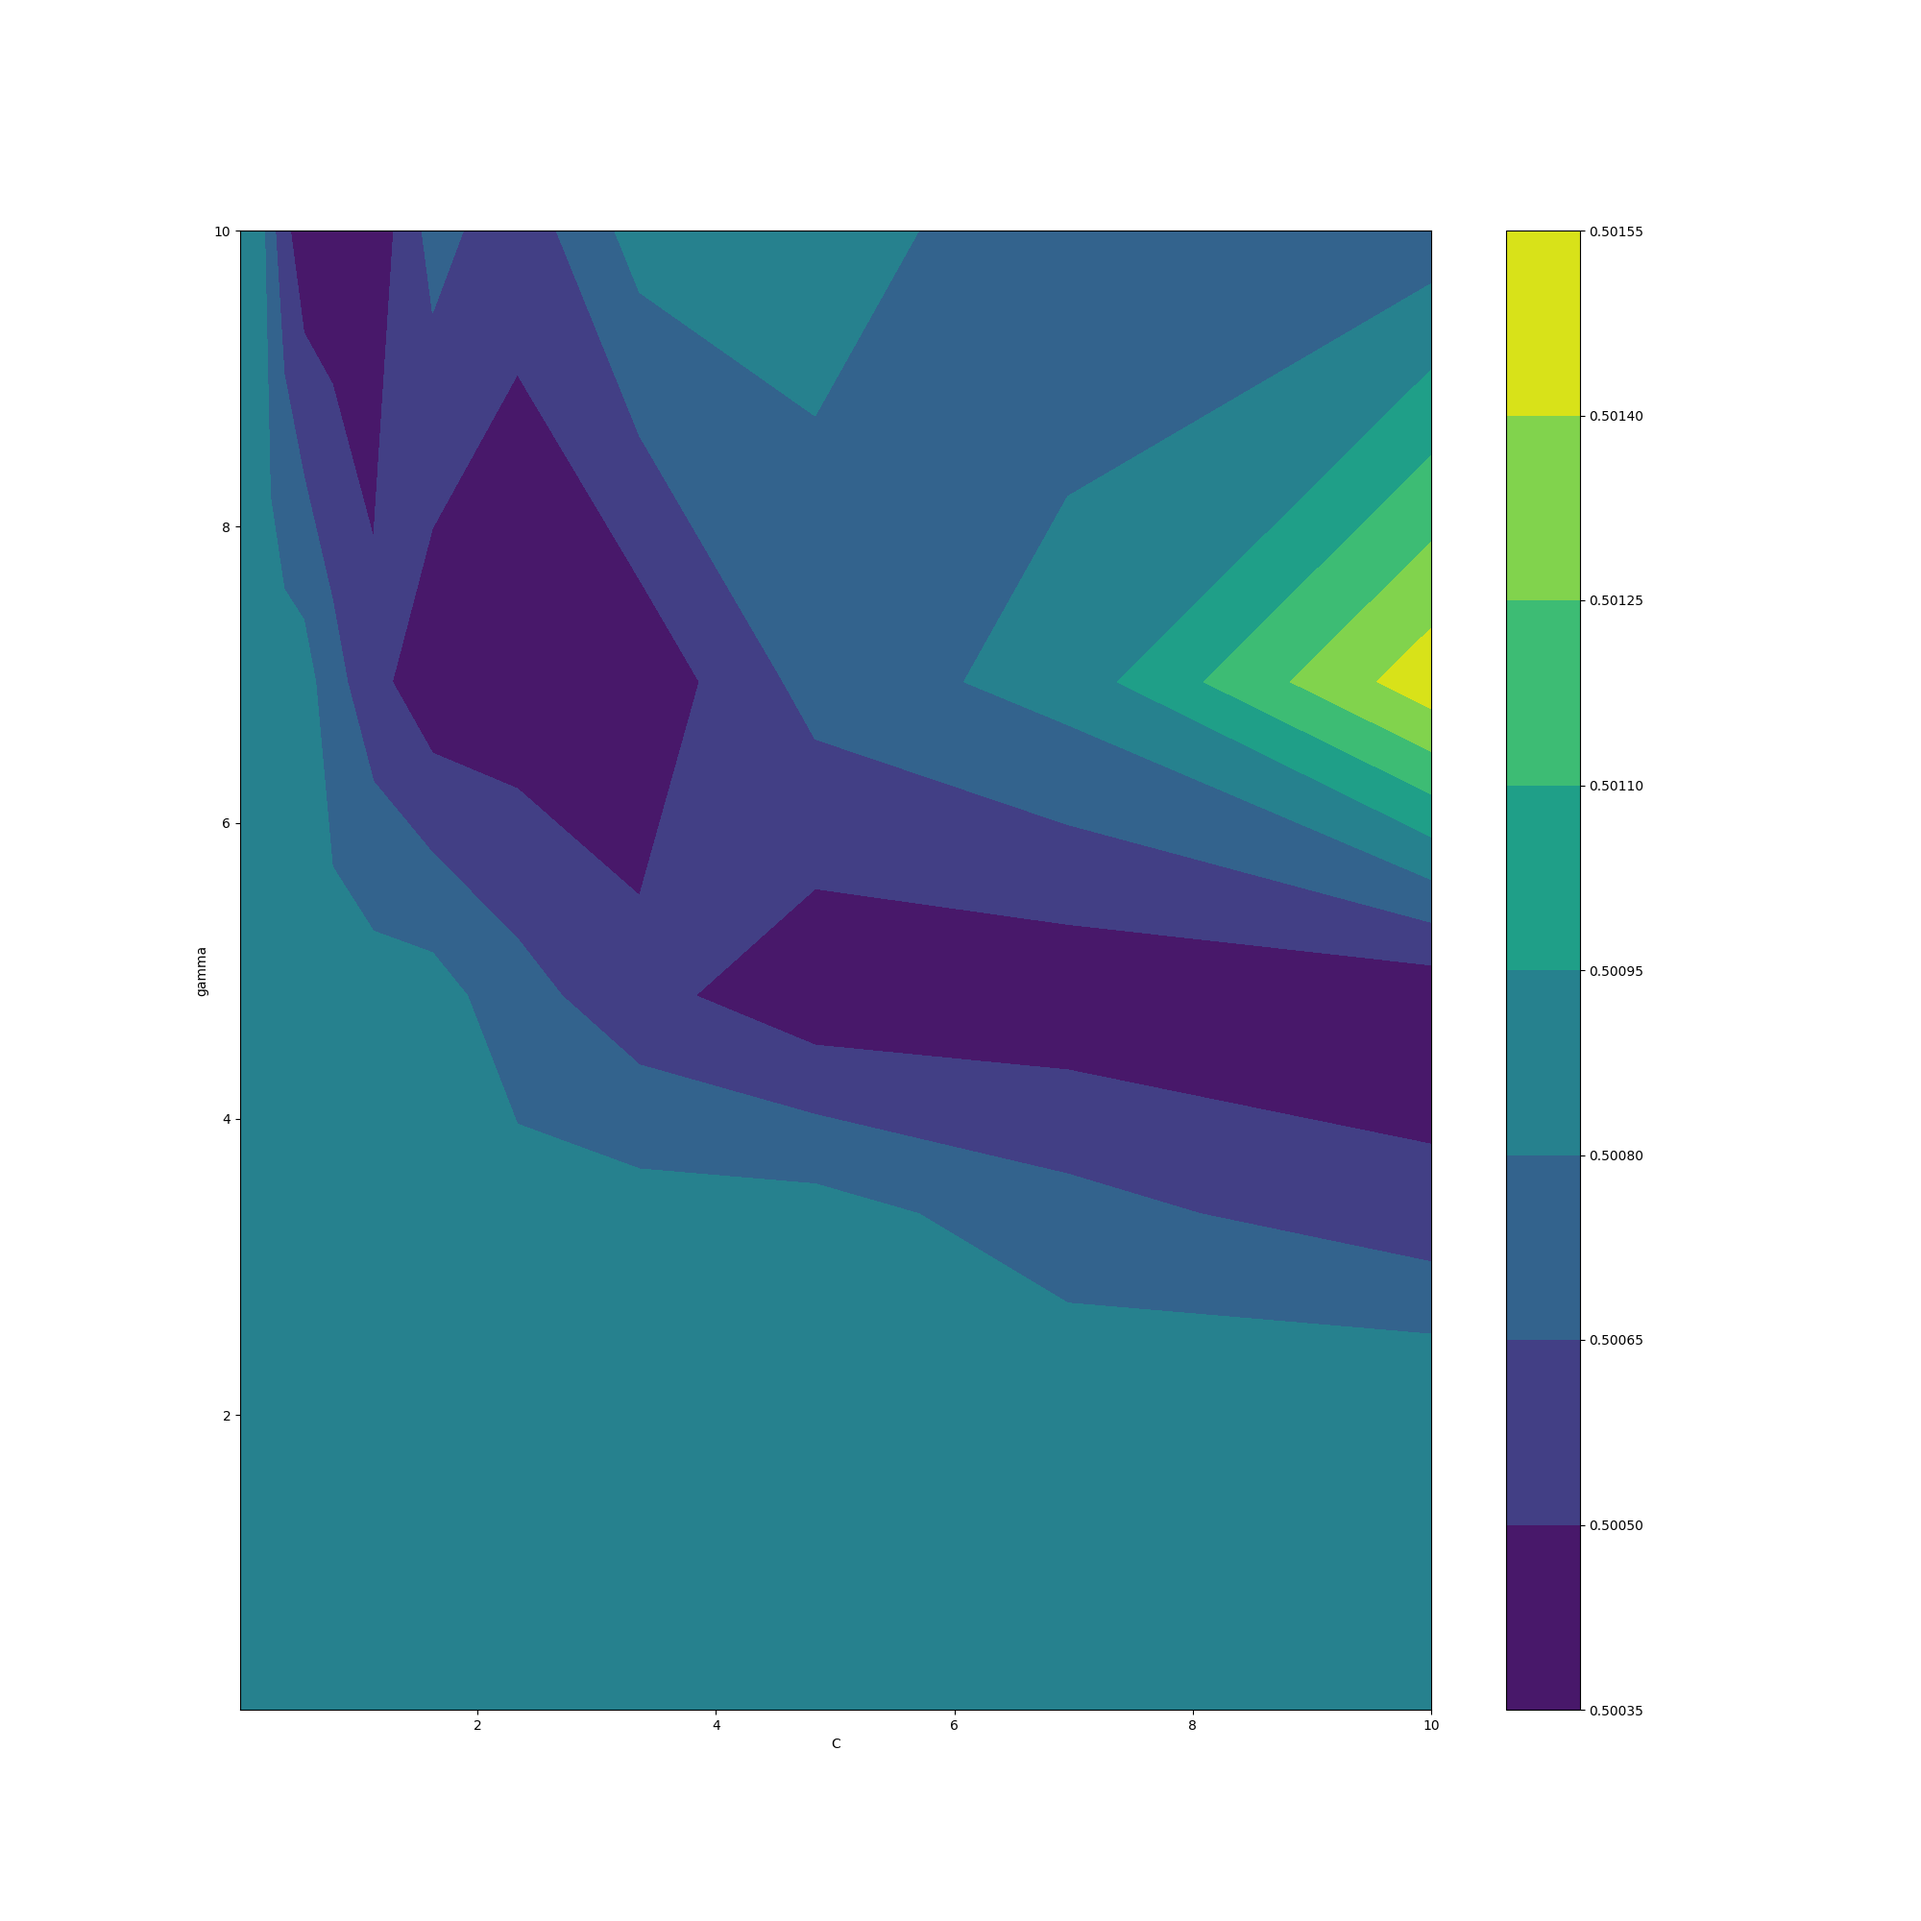
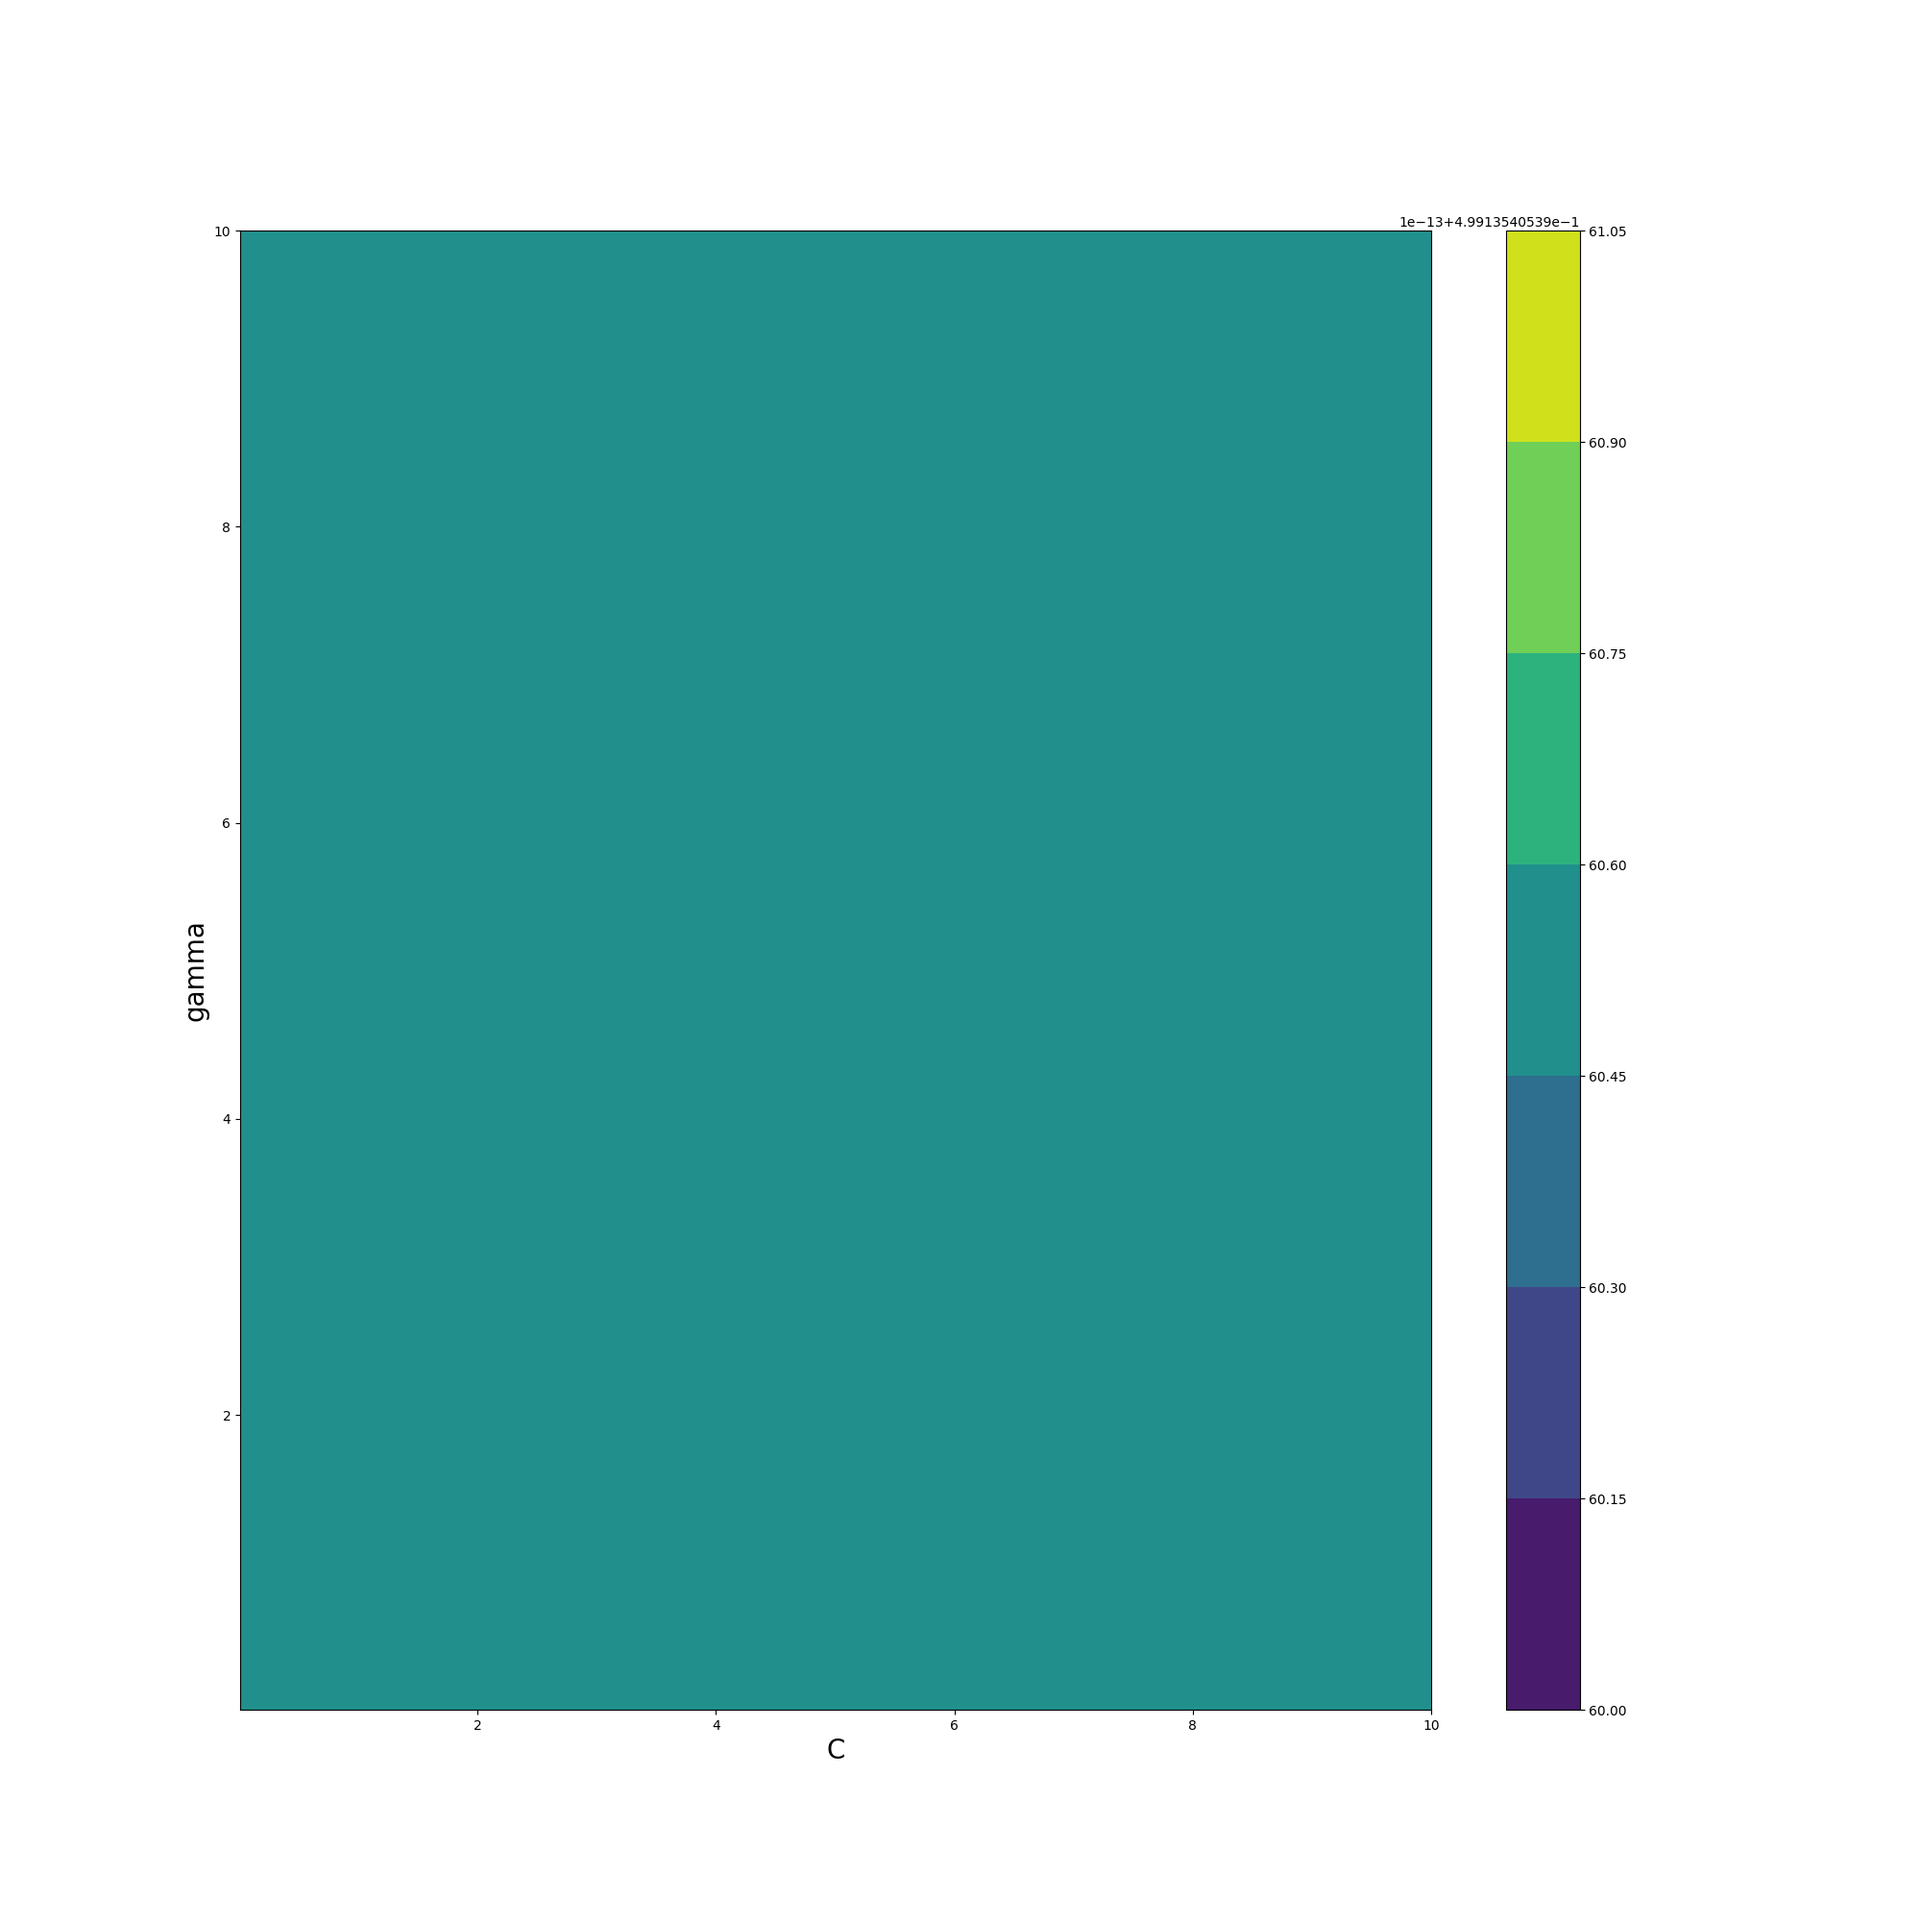
final code base

diff --git a/SVM.py b/SVM.py
@@ -131,17 +131,17 @@ def plotAccuracy(created_at_acc, favourites_acc,
     plt.ylabel('Accuracy')
     plt.title('Accuracy of features')
     graph = 'plots/' + graph_name + '.png'
-    plt.show()
+    #plt.show()
 
 def plotSingleFeatureData(X, actY, predY, graph_name, xLabel):
     fig, ax = plt.subplots(figsize=(6,2))
     ax.scatter(X, actY, label='Data', marker='+')
     ax.scatter(X, predY, label='Prediction', marker='x')
 
-    ax.set_xlabel(xLabel)
+    ax.set_xlabel('test', fontsize=12)
     ax.set_ylabel('Gender')
     ax.set_title(graph_name)
-    graph = 'plots/' + graph_name + '.png'    
+    graph = 'plots/' + graph_name + '1.png'
     fig.savefig(graph)
 
 '''
@@ -239,16 +239,17 @@ def listed_count_model(listed_count, y):
     # create Model
     (X, _) = normaliseData(np.array(listed_count).reshape(-1,1))
     Xtrain, Xtest, ytrain, ytest = train_test_split(X, y, test_size=0.1, random_state=42)
-    clf = svm.NuSVC(kernel='poly', degree=3, nu=.1)
-    #getCAndGamma(clf, X, y, 'listed_count_model')
-    clf.fit(Xtrain, ytrain)
+    clf = svm.NuSVC(kernel='poly', degree=3,nu= .1)
+   
+    clf.fit(X, y)
 
     # make predicitions
     predY = clf.predict(Xtest.reshape(-1,1))
     #plot data, get and return accuracy of model
-    print('listed_count Model metrics: ')
+   
+   
     print(classification_report(ytest, predY))
-    plotSingleFeatureData(Xtest, ytest, predY, 'Listed_Count', 'Number of Lists User appears on - Scaled between 0-1')
+    #plotSingleFeatureData(Xtest, ytest, predY, 'Listed_Count', 'Number of Lists User appears on - Scaled between 0-1')
     
     accuracy = accuracy_score(ytest, predY)
     print(str(accuracy))
@@ -274,7 +275,7 @@ def tweet_model(tweet, gender):
     print('Tweet Model Metrics: ')
     Xtest, ytest, predY = textClassification(tweet, gender, 0.1, 10, 'tweet_model')
     
-   
+    
     
     accuracy = accuracy_score(ytest, predY)
 
@@ -301,7 +302,6 @@ def test_model(data, gender):
 
 def textClassification(X, y, gamma_val, C_val, name):
     # create a dataframe using texts and lables
-   
     trainDF = pandas.DataFrame()
     trainDF['text'] = X
     trainDF['label'] = y
@@ -323,7 +323,9 @@ def textClassification(X, y, gamma_val, C_val, name):
     accuracy = accuracy_score(ytest, predY)
     print(accuracy)
     print(classification_report(ytest, predY))
-    
+    #if(name=="tweet_model"):
+     #   getCAndGamma(model, Xtrain, ytrain, "test")
+
     
   
     
@@ -333,7 +335,7 @@ def textClassification(X, y, gamma_val, C_val, name):
 
 #taken from SVM Repl
 def getCAndGamma(model, X, y, name):
-    C_s, gamma_s = np.meshgrid(np.logspace(-2,1, 12), np.logspace(-2, 1, 12))
+    C_s, gamma_s = np.meshgrid(np.logspace(-2,1, 20), np.logspace(-2, 1, 20))
     print(name)
     scores = list()
     i=0; j=0
@@ -350,11 +352,11 @@ def getCAndGamma(model, X, y, name):
     scores=scores.reshape(C_s.shape)
     fig2, ax2 = plt.subplots(figsize=(20,20))
     c=ax2.contourf(C_s,gamma_s,scores)
-    ax2.set_xlabel('C')
-    ax2.set_ylabel('gamma')
+    ax2.set_xlabel('C', fontsize=20)
+    ax2.set_ylabel('gamma', fontsize=20)
     fig2.colorbar(c)
     graph = 'plots/' + name + '.png'
-    # fig2.savefig(graph)
+    fig2.savefig(graph)
 
 #The multiple feature text classification code is based off https://www.kaggle.com/baghern/a-deep-dive-into-sklearn-pipelines#
 def combinedTextFeatures(x1, x2,df):
